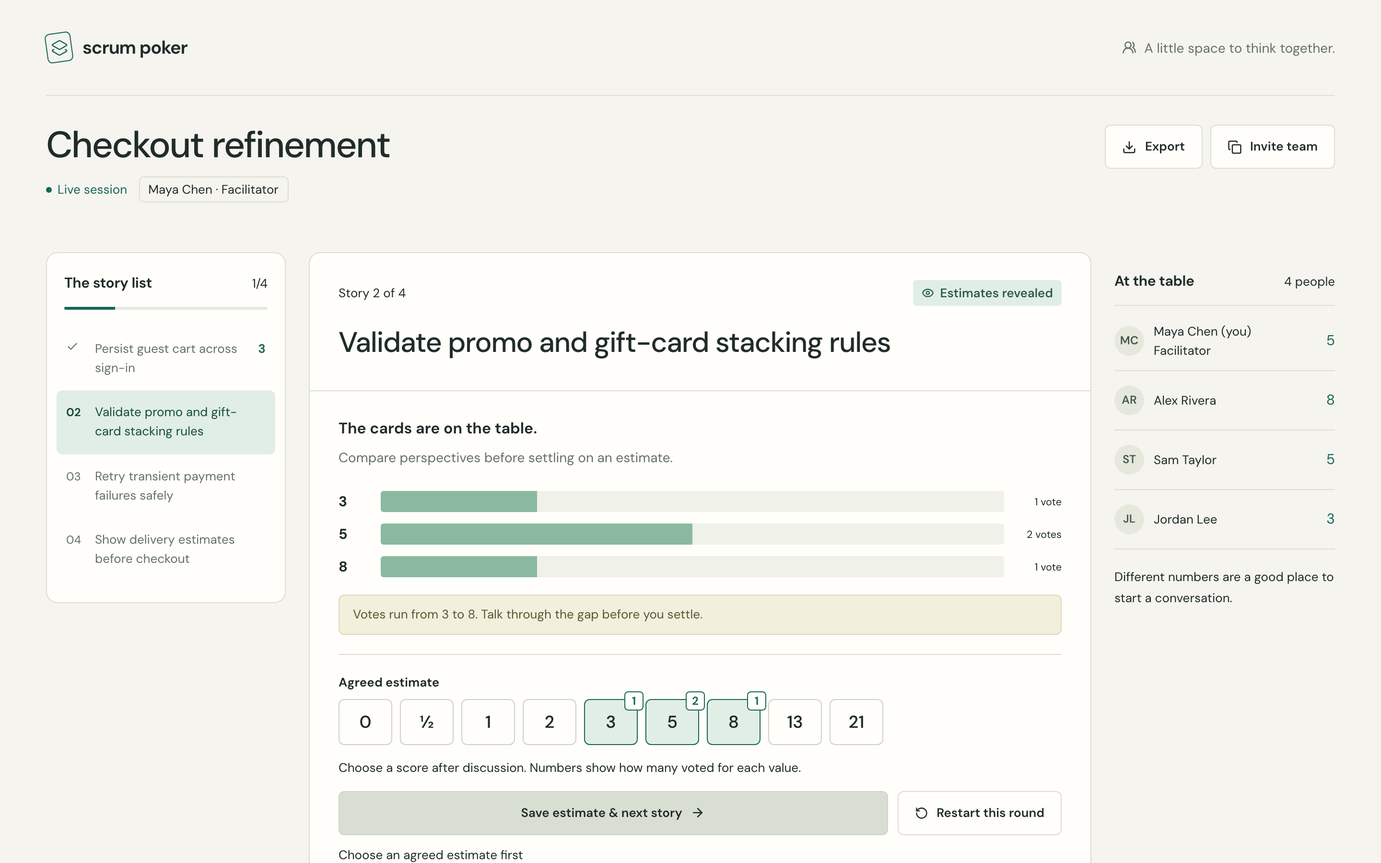
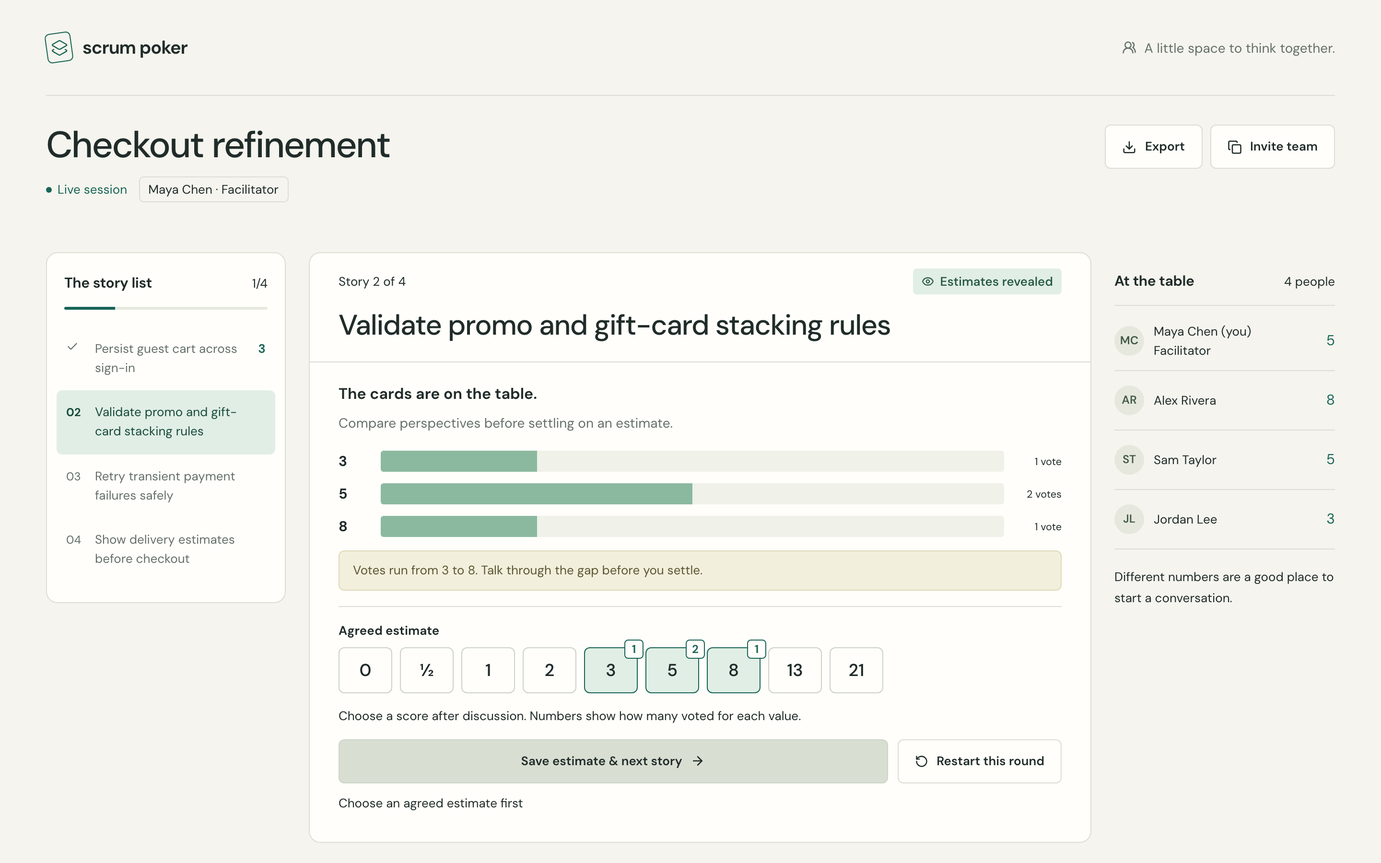
fix(room): restore reset orientation and completed admission guidance

Changed region(s): [[0.2188, 0.3111, 0.7812, 0.9956], [0.6562, 0.3111, 0.7812, 0.3733]]

diff --git a/src/RoomPage.tsx b/src/RoomPage.tsx
@@ -163,7 +163,8 @@ export function RoomView({ room, connection, busy, error, act, retry }: RoomView
   useEffect(() => {
     if (focusTick === 0) return;
     heading.current?.focus({ preventScroll: true });
-    if ((workspace.current?.getBoundingClientRect().top ?? 0) < 0) workspace.current?.scrollIntoView({ block: 'start' });
+    const bounds = heading.current?.getBoundingClientRect();
+    if (bounds && (bounds.top < 0 || bounds.bottom > window.innerHeight)) workspace.current?.scrollIntoView({ block: 'start' });
   }, [focusTick]);
   useEffect(() => {
     const before = seen.current;
@@ -224,7 +225,13 @@ export function RoomView({ room, connection, busy, error, act, retry }: RoomView
     const previous = room.stories[target]?.score ?? saved?.score ?? null;
     if (await act({ type: 'undoFinalize' })) { setSaved(null); setUndone(target); setPreset(previous); setFocusTick(tick => tick + 1); }
   }
-  async function reset() { if (await act({ type: 'reset' })) { setConfirmReset(false); setPreset(null); } }
+  async function reset() {
+    if (await act({ type: 'reset' })) {
+      setConfirmReset(false); setPreset(null);
+      const active = document.activeElement;
+      if (!active || active === document.body || workspace.current?.contains(active)) setFocusTick(tick => tick + 1);
+    }
+  }
 
   const undoLast = canUndo && !saved && <button className="button subtle" type="button" disabled={locked} onClick={() => void undo()}><Undo2 size={14} />Undo last save</button>;
   const closeReset = () => { returnFocus.current = 'reset'; setConfirmReset(false); };
@@ -232,9 +239,9 @@ export function RoomView({ room, connection, busy, error, act, retry }: RoomView
 
   return <main>
     <div className="sr-only" role="status" aria-live="polite">{announcement}</div>
-    <div className="room-top"><div><h1>{room.title}</h1><div className="room-meta"><span className={`connection ${connection !== 'live' ? 'disconnected' : ''}`}>{connection === 'live' ? (done ? 'Complete' : 'Live session') : connection === 'connecting' ? 'Connecting' : 'Reconnecting'}</span><span className="identity">{self?.name ?? 'You'} · {room.self.facilitator ? 'Facilitator' : 'Participant'}</span></div></div><div className="room-actions"><button className="button" onClick={exportScores} aria-label="Export estimates as CSV"><Download size={15} />Export</button><button className={`button ${!done && total === 1 ? 'primary' : ''}`} onClick={copyInvite}><Copy size={15} />{clipboard === 'copied' ? 'Link copied' : 'Invite team'}</button></div></div>
-    {clipboard === 'copied' && <div className="notice">Invite link copied. Share it with your team so they can join.</div>}
-    {clipboard === 'failed' && <div className="notice">Clipboard access is unavailable. Copy this invite link instead: <a href={`/rooms/${room.id}`}>{window.location.origin}/rooms/{room.id}</a></div>}
+    <div className="room-top"><div><h1>{room.title}</h1><div className="room-meta"><span className={`connection ${connection !== 'live' ? 'disconnected' : ''}`}>{connection === 'live' ? (done ? 'Complete' : 'Live session') : connection === 'connecting' ? 'Connecting' : 'Reconnecting'}</span><span className="identity">{self?.name ?? 'You'} · {room.self.facilitator ? 'Facilitator' : 'Participant'}</span></div></div><div className="room-actions"><button className="button" onClick={exportScores} aria-label="Export estimates as CSV"><Download size={15} />Export</button>{!done && <button className={`button ${total === 1 ? 'primary' : ''}`} onClick={copyInvite}><Copy size={15} />{clipboard === 'copied' ? 'Link copied' : 'Invite team'}</button>}</div></div>
+    {!done && clipboard === 'copied' && <div className="notice">Invite link copied. Share it with your team so they can join.</div>}
+    {!done && clipboard === 'failed' && <div className="notice">Clipboard access is unavailable. Copy this invite link instead: <a href={`/rooms/${room.id}`}>{window.location.origin}/rooms/{room.id}</a></div>}
     {connection !== 'live' && <div className="notice">Live updates are interrupted. We’re checking for changes while we reconnect. Voting and facilitator controls will return when connected.<button className="button subtle" onClick={retry}>Reconnect now</button></div>}
     {error && <div className="error" role="alert">{error}</div>}
     {exportError && <div className="error" role="alert">{exportError}</div>}
@@ -242,7 +249,7 @@ export function RoomView({ room, connection, busy, error, act, retry }: RoomView
       <aside className={`paper agenda ${done ? 'complete' : ''}`} aria-label="Story progress"><div className="rail-title"><h2>The story list</h2><span className="count">{completedCount}/{room.stories.length}</span></div><div className="progress-track" role="progressbar" aria-label="Stories completed" aria-valuenow={completedCount} aria-valuemin={0} aria-valuemax={room.stories.length}><span style={{ width: `${completedCount / room.stories.length * 100}%` }} /></div>{!done && <ol className="story-list">{room.stories.map((story, index) => <li className={`story-item ${index === room.currentStory ? 'active' : ''}`} key={story.id} aria-current={index === room.currentStory ? 'step' : undefined}><span className="story-number">{story.score !== null ? <Check size={13} aria-label="Agreed" /> : String(index + 1).padStart(2, '0')}</span><span className="story-name" title={story.title}>{story.title}</span>{story.score !== null && <span className="story-score" aria-label={`Agreed estimate ${story.score}`}>{story.score}</span>}</li>)}</ol>}</aside>
       <section className="workspace" ref={workspace} aria-label="Estimation workspace">
         {room.self.facilitator && saved && !done && <SavedBanner saved={saved} disabled={connection !== 'live'} onUndo={undo} />}
-        <div className="paper round-paper">
+        <div className={`paper round-paper ${revealed ? 'revealed' : ''}`}>
           {done ? <>{room.self.facilitator && saved && <SavedBanner saved={saved} disabled={connection !== 'live'} onUndo={undo} inCard />}<div className="round-body completed-summary"><span className="complete-mark"><CheckCheck size={27} strokeWidth={1.5} /></span><h2 ref={heading} tabIndex={-1}>That’s a shared understanding.</h2><p className="muted">Every story has an agreed estimate. Your session is complete.</p><button className="button primary" onClick={exportScores}><Download size={16} />Export agreed estimates</button>{undoLast}<div className="completion-list">{room.stories.map(story => <div className="completion-row" key={story.id}><span>{story.title}</span><strong>{story.score}</strong></div>)}</div></div></> : <>
             <div className="round-top"><div className="round-phase"><div className="phase-story"><span>Story {room.currentStory + 1} of {room.stories.length}</span>{titleOverflows && <button className="button subtle title-toggle" type="button" aria-expanded={titleExpanded} aria-controls="story-title" onClick={() => setTitleExpanded(!titleExpanded)}>{titleExpanded ? 'Show less' : 'Show full story'}</button>}</div><span className="phase-tag">{revealed ? <><Eye size={13} />Estimates revealed</> : <><Circle size={10} fill="currentColor" />Voting open</>}</span></div><h2 className={`round-title ${titleOverflows && !titleExpanded ? 'clamped' : ''}`} id="story-title" ref={heading} tabIndex={-1}>{currentStory?.title}</h2></div>
             <div className="round-body">

diff --git a/src/RoomPage.test.tsx b/src/RoomPage.test.tsx
@@ -323,6 +323,25 @@ describe('Discussion and completion', () => {
     expect(screen.getByRole('group', { name: 'Agreed estimate' })).toBeVisible();
   });
 
+  it.each(['offscreen', 'visible', 'unrelated focus'] as const)('restores reset orientation only when needed: %s', async state => {
+    const user = userEvent.setup();
+    const act = vi.fn().mockImplementation(async () => {
+      if (state === 'unrelated focus') screen.getByRole('button', { name: 'Invite team' }).focus();
+      return true;
+    });
+    view(revealed(), { act });
+    const title = screen.getByRole('heading', { name: 'Improve search relevance' });
+    vi.spyOn(title, 'getBoundingClientRect').mockReturnValue({ top: state === 'visible' ? 40 : -238, bottom: state === 'visible' ? 80 : -198 } as DOMRect);
+    const workspace = screen.getByRole('region', { name: 'Estimation workspace' });
+    const scroll = vi.fn();
+    workspace.scrollIntoView = scroll;
+    await user.click(screen.getByRole('button', { name: 'Restart this round' }));
+    await user.click(screen.getByRole('button', { name: 'Reset this round' }));
+    expect(scroll).toHaveBeenCalledTimes(state === 'offscreen' ? 1 : 0);
+    if (state === 'unrelated focus') expect(screen.getByRole('button', { name: 'Invite team' })).toHaveFocus();
+    else expect(title).toHaveFocus();
+  });
+
   it('tells participants when the facilitator restarted the round, until they vote', () => {
     const guest = { id: 'guest', facilitator: false, vote: null as null | '5' };
     const { rerender, ...props } = view(snapshot({ phase: 'revealed', self: guest }));
@@ -481,12 +500,12 @@ describe('Discussion and completion', () => {
     expect(screen.queryByText('Choose an agreed estimate first')).not.toBeInTheDocument();
   });
 
-  it('keeps Invite primary only while the facilitator is alone, and secondary when complete', () => {
+  it('keeps Invite primary only while alone and hides it when complete', () => {
     const done = { phase: 'completed' as const, currentStory: 2, stories: [{ id: 'first', title: 'Improve search relevance', score: '5' as const }, { id: 'second', title: 'Add saved filters', score: '3' as const }] };
     view(snapshot(done));
     expect(screen.getByText('Complete')).toBeVisible();
     expect(screen.queryByText('Live session')).not.toBeInTheDocument();
-    expect(screen.getByRole('button', { name: 'Invite team' })).not.toHaveClass('primary');
+    expect(screen.queryByRole('button', { name: 'Invite team' })).not.toBeInTheDocument();
     cleanup(); view();
     expect(screen.getByRole('button', { name: 'Invite team' })).not.toHaveClass('primary');
     cleanup(); view(snapshot({ participants: [{ id: 'host', name: 'Robin', facilitator: true, online: true, hasVoted: false }] }));

diff --git a/src/App.tsx b/src/App.tsx
@@ -1,7 +1,7 @@
 import { useEffect, useState, type FormEvent } from 'react';
 import { ArrowRight, Check, CheckCheck, Layers2, LockKeyhole, UsersRound } from 'lucide-react';
 import type { Admission } from '../shared/types';
-import { createRoom, friendlyError, joinRoom, readIdentity, saveIdentity } from './api';
+import { ApiError, createRoom, friendlyError, joinRoom, readIdentity, saveIdentity } from './api';
 import { RoomPage } from './RoomPage';
 
 export function Header() {
@@ -59,12 +59,14 @@ export function Join({ id, onAdmission }: { id: string; onAdmission: (admission:
   const [name, setName] = useState('');
   const [busy, setBusy] = useState(false);
   const [error, setError] = useState('');
+  const [completed, setCompleted] = useState(false);
   async function submit(event: FormEvent<HTMLFormElement>) {
     event.preventDefault();
     if (!name.trim()) { setError('Enter your name to join the team.'); return; }
     setBusy(true); setError('');
-    try { onAdmission(await joinRoom(id, name.trim())); } catch (failure) { setError(friendlyError(failure)); } finally { setBusy(false); }
+    try { onAdmission(await joinRoom(id, name.trim())); } catch (failure) { setError(friendlyError(failure)); setCompleted(failure instanceof ApiError && failure.status === 409 && failure.code === 'session_completed'); } finally { setBusy(false); }
   }
+  if (completed) return <main className="page-centered"><section className="paper join-paper"><h1>This session is complete.</h1><p className="muted" role="status">Ask the facilitator for the exported worksheet. New participants can’t join a completed session.</p><a className="button primary" href="/">Start a new session<ArrowRight size={16} /></a></section></main>;
   return <main className="page-centered"><section className="paper join-paper"><h1>Pull up a chair.</h1><p className="muted">You’ve been invited to estimate with your team. Add your name to join the room.</p><form onSubmit={submit}><div className="field"><label htmlFor="join-name">Your name</label><input id="join-name" required autoComplete="given-name" maxLength={60} value={name} placeholder="How your team knows you" onChange={event => setName(event.target.value)} /></div>{error && <ErrorMessage message={error} />}<button className="button primary full" disabled={busy}>{busy ? 'Joining the room…' : 'Join session'}<ArrowRight size={16} /></button></form><p className="form-footnote">Your vote is private until the facilitator reveals it.</p></section></main>;
 }
 

diff --git a/src/api.ts b/src/api.ts
@@ -1,7 +1,7 @@
 import type { Admission, Command, Identity, RoomSnapshot } from '../shared/types';
 
 export class ApiError extends Error {
-  constructor(public status: number, message: string) { super(message); }
+  constructor(public status: number, message: string, public code?: string) { super(message); }
 }
 
 export async function request<T>(path: string, options: { method?: string; body?: unknown; identity?: Identity; signal?: AbortSignal } = {}): Promise<T> {
@@ -13,8 +13,9 @@ export async function request<T>(path: string, options: { method?: string; body?
   });
   if (!response.ok) {
     let message = 'The server could not complete that request. Please try again.';
-    try { message = (await response.json()).error || message; } catch { /* Non-JSON upstream failures still need an actionable message. */ }
-    throw new ApiError(response.status, message);
+    let code: string | undefined;
+    try { const failure = await response.json(); message = failure.error || message; code = failure.code; } catch { /* Non-JSON upstream failures still need an actionable message. */ }
+    throw new ApiError(response.status, message, code);
   }
   return response.json() as Promise<T>;
 }
@@ -47,7 +48,11 @@ export function friendlyError(error: unknown): string {
   if (error instanceof ApiError) {
     if (error.status === 404) return 'This room was not found or has expired. Check your invite link or start a new session.';
     if (error.status === 401 || error.status === 403) return 'Your room access is no longer valid. You can rejoin with your name, but facilitator access cannot be recovered.';
-    if (error.status === 409) return 'The round changed while you were acting. We’ve refreshed the room. Review it and try again.';
+    if (error.status === 409) {
+      if (error.code === 'session_completed') return 'This session is complete. Ask the facilitator for the exported worksheet.';
+      if (error.code === 'room_full') return 'This room has reached its 50-person limit. Ask the facilitator for the exported worksheet.';
+      return 'The round changed while you were acting. We’ve refreshed the room. Review it and try again.';
+    }
     if (error.status === 429) return 'Too many requests. Wait a moment, then try again.';
     return error.message;
   }

diff --git a/src/App.test.tsx b/src/App.test.tsx
@@ -3,7 +3,7 @@ import { cleanup, render, screen } from '@testing-library/react';
 import userEvent from '@testing-library/user-event';
 import '@testing-library/jest-dom/vitest';
 import { Home, Join } from './App';
-import { createRoom, joinRoom } from './api';
+import { ApiError, createRoom, friendlyError, joinRoom } from './api';
 import { admission } from './test-fixtures';
 
 vi.mock('./api', async importOriginal => ({ ...await importOriginal<typeof import('./api')>(), createRoom: vi.fn(), joinRoom: vi.fn() }));
@@ -51,6 +51,23 @@ describe('Create session', () => {
 });
 
 describe('Join session', () => {
+  it('replaces completed admission with worksheet guidance and no futile join retry', async () => {
+    vi.mocked(joinRoom).mockRejectedValue(new ApiError(409, 'unsafe upstream message', 'session_completed'));
+    const user = userEvent.setup();
+    render(<Join id={'a'.repeat(32)} onAdmission={vi.fn()} />);
+    await user.type(screen.getByLabelText('Your name'), 'Late visitor');
+    await user.click(screen.getByRole('button', { name: 'Join session' }));
+    expect(screen.getByRole('heading', { name: 'This session is complete.' })).toBeVisible();
+    expect(screen.getByText(/Ask the facilitator for the exported worksheet/)).toBeVisible();
+    expect(screen.queryByRole('button', { name: 'Join session' })).not.toBeInTheDocument();
+    expect(screen.queryByText(/unsafe upstream/)).not.toBeInTheDocument();
+  });
+
+  it('distinguishes safe admission errors from stale command conflicts', () => {
+    expect(friendlyError(new ApiError(409, 'unsafe', 'room_full'))).toBe('This room has reached its 50-person limit. Ask the facilitator for the exported worksheet.');
+    expect(friendlyError(new ApiError(409, 'unsafe', 'unknown'))).toMatch(/round changed/);
+    expect(friendlyError(new ApiError(409, 'unsafe'))).toMatch(/round changed/);
+  });
   it('joins the requested room with a named identity', async () => {
     const user = userEvent.setup();
     const onAdmission = vi.fn();

diff --git a/server/service.ts b/server/service.ts
@@ -5,7 +5,7 @@ import { dirname } from 'node:path';
 import type { Admission, Command, Estimate, RoomSnapshot, Story } from '../shared/types';
 
 export class Problem extends Error {
-  constructor(public status: number, message: string) { super(message); }
+  constructor(public status: number, message: string, public code?: 'session_completed' | 'room_full') { super(message); }
 }
 interface Member { id: string; name: string; facilitator: boolean; hash: string; vote: Estimate | null }
 interface Room {
@@ -66,8 +66,8 @@ export class RoomService {
     const { member, token } = this.newMember(name, false);
     const room = this.db.transaction(() => {
       const room = this.read(id);
-      if (room.members.length >= 50) throw new Problem(409, 'This room has reached its 50-person limit.');
-      if (room.phase === 'completed') throw new Problem(409, 'This session is complete. Ask the facilitator for the exported worksheet.');
+      if (room.phase === 'completed') throw new Problem(409, 'This session is complete. Ask the facilitator for the exported worksheet.', 'session_completed');
+      if (room.members.length >= 50) throw new Problem(409, 'This room has reached its 50-person limit.', 'room_full');
       room.members.push(member); room.revision++; this.save(room); return room;
     })();
     this.broadcast(room);

diff --git a/tests/server.test.ts b/tests/server.test.ts
@@ -66,7 +66,9 @@ describe('authoritative room transitions', () => {
     await s.command(owner, { type: 'reveal' }); await s.command(owner, { type: 'finalize', score: '½' });
     expect(s.snapshot(owner).phase).toBe('completed'); expect(s.snapshot(owner).currentStory).toBe(2);
     for (const payload of [{ type: 'vote', estimate: '3' }, { type: 'reset' }, { type: 'reveal' }, { type: 'finalize', score: '3' }]) expect((await s.command(owner, payload)).status).toBe(409);
-    expect((await s.request(`/api/rooms/${owner.room.id}/join`, 'POST', undefined, { name: 'Late' })).status).toBe(409);
+    const late = await s.request(`/api/rooms/${owner.room.id}/join`, 'POST', undefined, { name: 'Late' });
+    expect(late.status).toBe(409);
+    expect(await late.json()).toMatchObject({ code: 'session_completed' });
   });
   test('same-story reset invalidates every stale command, including stale resets with new revision', async () => {
     const s = setup(); const owner = await s.create();

diff --git a/src/index.css b/src/index.css
@@ -168,6 +168,14 @@ kbd { font: inherit; font-size: 13px; font-weight: 600; color: var(--ink); min-w
 .distribution-row small { color: var(--ink); text-align: right; }
 .finalize-form { margin-top: 20px; padding-top: 20px; border-top: 1px solid var(--line); }
 .finalize-form .field { margin-bottom: 14px; }
+@media (min-width: 1151px) {
+  .round-paper.revealed .round-top { padding-block: 16px; }
+  .round-paper.revealed .round-phase { margin-bottom: 12px; }
+  .round-paper.revealed .round-body { padding-top: 22px; }
+  .round-paper.revealed .distribution { margin-top: 18px; }
+  .round-paper.revealed .spread-note { margin-top: 14px; }
+  .round-paper.revealed .finalize-form { margin-top: 16px; padding-top: 16px; }
+}
 .score-field { border: 0; padding: 0; margin-inline: 0; min-width: 0; }
 .score-field legend { padding: 0; margin-bottom: 9px; font-size: 13px; font-weight: 650; }
 .score-choices { display: flex; flex-wrap: wrap; gap: 12px 8px; }

diff --git a/server/app.ts b/server/app.ts
@@ -110,7 +110,7 @@ export function createApp(service: RoomService, options: { origin?: string; now?
   }
   app.notFound((c) => c.json({ error: 'Not found.' }, 404));
   app.onError((error, c) => {
-    if (error instanceof Problem) return c.json({ error: error.message }, error.status as 400);
+    if (error instanceof Problem) return c.json({ error: error.message, ...(error.code ? { code: error.code } : {}) }, error.status as 400);
     if (error instanceof z.ZodError) return c.json({ error: 'Check your input. Names: 1–60 characters; title: 1–120; stories: 1–100, up to 500 characters each. Use an available estimate and the current round.' }, 400);
     if (error instanceof SyntaxError) return c.json({ error: 'Invalid JSON request.' }, 400);
     return c.json({ error: 'The server could not complete this request. Please try again.' }, 500);

diff --git a/DESIGN.md b/DESIGN.md
@@ -189,7 +189,10 @@ Paper surfaces use 12px corners. Controls use 6px, estimate cards 8px, state tag
 
 ## Components
 
-- **Actions:** solid teal for the next primary task, paper for secondary actions, transparent muted text for reset/cancel. Disabled controls remain recognizable and noninteractive; a disabled primary button is stock-grey with full-contrast text (never faded), and Save explains itself with “Choose an agreed estimate first”. Invite team is primary only while the facilitator is alone in the room; once another member joins, or the session is complete, it is a secondary button. Reveal and reset use inline confirmations, not modals.
+- **Actions:** solid teal for the next primary task, paper for secondary actions, transparent muted text for reset/cancel. Disabled controls remain recognizable and noninteractive; a disabled primary button is stock-grey with full-contrast text (never faded), and Save explains itself with “Choose an agreed estimate first”. Invite team is primary only while the facilitator is alone in the room and secondary once another member joins; completed rooms hide invitations and any copy-link feedback. Reveal and reset use inline confirmations, not modals.
+- **Completed admission:** a new visitor who submits the join form for a completed room sees “This session is complete.” and guidance to ask the facilitator for the exported worksheet, with a start-new-session link instead of a futile join retry. Allowlisted admission error codes distinguish completion and room capacity from stale command conflicts; arbitrary server conflict text is not displayed.
+- **Revealed desktop rhythm:** above 1150px, the revealed story header uses 16px vertical padding and a 12px phase-to-title gap; the body begins at 22px, distribution at 18px, spread note at 14px, and agreement section has 16px top margin/padding. This recovers 54px for Save and Restart at 1440×900 with a three-line collapsed story, two revealed values and spread guidance, without hiding content or shortening the full numeric picker. Voting and mobile spacing are unchanged.
+- **Explicit reset orientation:** after the facilitator's own successful reset, focus returns to the story heading. If that heading is outside the viewport, scroll the workspace into view; a visible heading causes no scroll. Focus moved outside the workspace while the request was pending is left alone. Remote resets retain the existing participant focus behavior without forcing scroll.
 - **Fields:** persistent visible labels, paper fills, gray-green strokes, clear placeholders, and adjacent practical help. Native required validation and bounded lengths support the server constraints.
 - **Facilitator action bar:** the primary round action (Reveal while voting, Save after reveal) lives in an `action-bar`. Above 760px it is a normal block, kept above the fold at 1440×900 by merging the privacy note into the “Your estimate” line (“Private until the reveal. Pick your card.”), putting the legend on one row, and showing the reveal hint only when everyone has voted. After reveal, “Restart this round” moves into the `action-bar` as a secondary button alongside Save so both stay above the fold at 1440×900; its inline reset confirmation (“Reset this round” in `danger` plus a secondary “Cancel”, dismissible with Escape) expands directly inside the bar. At ≤760px the `action-bar` remains after all round content, flush with the paper bottom, with a paper background, top hairline and safe-area padding. Its top sticky threshold is the viewport height minus its measured height: it never pulls upward over unread content. During voting, Restart and “Undo last save” are grouped inside the bar; reset confirmations expand inside it. Participants have no bar. Opening a room scrolls to the top.
 - **Roster:** the “At the table” list is a single aligned column at ≤760px.

diff --git a/PRODUCT.md b/PRODUCT.md
@@ -11,7 +11,7 @@ Scrum Poker is a small, synchronous estimation worksheet for a team discussing a
 3. Select or change a private estimate, by pointer or keyboard (arrows, Space, typed numbers such as 13 or 21, `H` or `/` for ½, `?`). Teammates see only whether a person has voted. The caller sees their own saved estimate. Very long story titles are clamped with a “Show full story” toggle so the deck and Reveal stay in view.
 4. The facilitator reveals at any time, including when someone is away. The distribution and individual estimates become visible to all room members.
 5. Discuss, then choose a final score from the full numeric deck (with voted values highlighted and marked with vote counts). Finalizing advances to the next story automatically; the facilitator sees a 10-second “Saved” banner with Undo and retains a persistent “Undo last save” control for as long as the next round has no votes and is not revealed. Undoing reopens the story with its votes and preselects the previously chosen score. A wide spread of votes is flagged as guidance before saving.
-6. Reset the current story if another private round is useful. Reset changes the round ID, invalidates old requests, and removes all votes; participants see a short “The facilitator restarted this round. Vote again.” notice and keyboard focus returns to the first card.
+6. Reset the current story if another private round is useful. Reset changes the round ID, invalidates old requests, and removes all votes; participants see a short “The facilitator restarted this round. Vote again.” notice and keyboard focus returns to the first card. After the facilitator explicitly resets, the story heading and deck return into view only if the heading is offscreen; focus on an unrelated control is preserved.
 7. Complete the list and export the agreed story scores as formula-safe CSV.
 
 ## Identities and connectivity
@@ -30,7 +30,7 @@ The client uses React 19, TypeScript, native form controls, self-hosted typograp
 
 - Fixed Fibonacci-style deck: `0, ½, 1, 2, 3, 5, 8, 13, 21, ?`. Final score must be numeric.
 - 1–100 stories, 500 characters per story, 50 members, 60-character names, 120-character titles, 64 KiB request body.
-- Fixed seven-day room life; 10,000-room storage cap. Members can revisit a completed room until it expires; completed rooms reject new members.
+- Fixed seven-day room life; 10,000-room storage cap. Members can revisit a completed room until it expires. Completed rooms hide invitations; new visitors who attempt to join receive completion guidance to ask the facilitator for the exported worksheet, without a join retry.
 - Five simultaneous streams per person, 160 per room, 2,000 total; bounded per-minute create/join/command/read rates.
 - No accounts, verified names, facilitator recovery/transfer, member deletion, story editing after creation, or retrospective individual-vote history.
 - No multi-process fan-out, cloud dependencies, deployment orchestration, or migration of anonymous legacy sessions. The rebuilt schema is separate from the obsolete legacy server storage.

diff --git a/API-CONTRACT.md b/API-CONTRACT.md
@@ -4,10 +4,10 @@ Stable shared module: `shared/types.ts` (types and deck constants; no runtime se
 
 ## HTTP
 
-All routes `/api`. JSON errors `{ error: string }`, HTTP 400/401/403/404/409/413/429/500/503. No CORS. Bearer capability in `Authorization: Bearer <token>` for ALL room reads, commands and SSE. Never token URLs. Create/join return a new identity once; store per-room identity in browser localStorage (handle unavailable storage). Room IDs are random 32 lowercase hex characters. No unauthenticated room metadata endpoint.
+All routes `/api`. JSON errors `{ error: string, code?: 'session_completed' | 'room_full' }`, HTTP 400/401/403/404/409/413/429/500/503. No CORS. Bearer capability in `Authorization: Bearer <token>` for ALL room reads, commands and SSE. Never token URLs. Create/join return a new identity once; store per-room identity in browser localStorage (handle unavailable storage). Room IDs are random 32 lowercase hex characters. No unauthenticated room metadata endpoint.
 
 - `POST /api/rooms` body `{name, title, stories: string[]}` → 201 `Admission`
-- `POST /api/rooms/:id/join` body `{name}` → 201 `Admission`. Duplicate names create distinct participants, never replace identities.
+- `POST /api/rooms/:id/join` body `{name}` → 201 `Admission`. Duplicate names create distinct participants, never replace identities. Admission 409 codes distinguish `session_completed` (ask the facilitator for the exported worksheet, without a join retry) and `room_full` from command conflicts. Clients use allowlisted copy rather than arbitrary conflict messages. Completion takes precedence over capacity.
 - `GET /api/rooms/:id` → `RoomSnapshot`
 - `POST /api/rooms/:id/commands` body `Command` → `RoomSnapshot`
 - `GET /api/rooms/:id/events` → fetch-authenticated SSE. `event: snapshot` / JSON `RoomSnapshot` immediately and after changes; `event: heartbeat` every 15s; `event: expired` ends expired streams; `event: stream-error` with `{error}` ends unavailable streams. Abort fetch to disconnect. HTTP errors possible before stream; process stream-error too.
